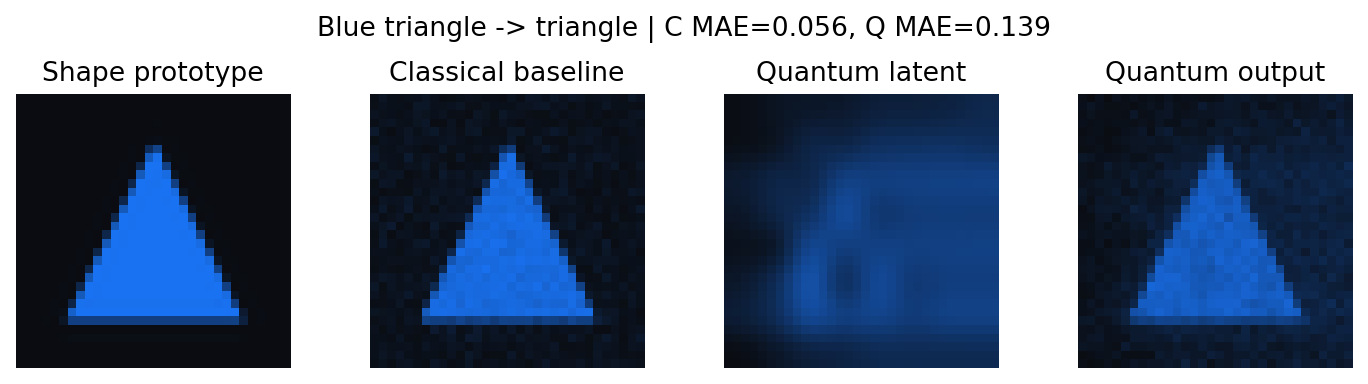
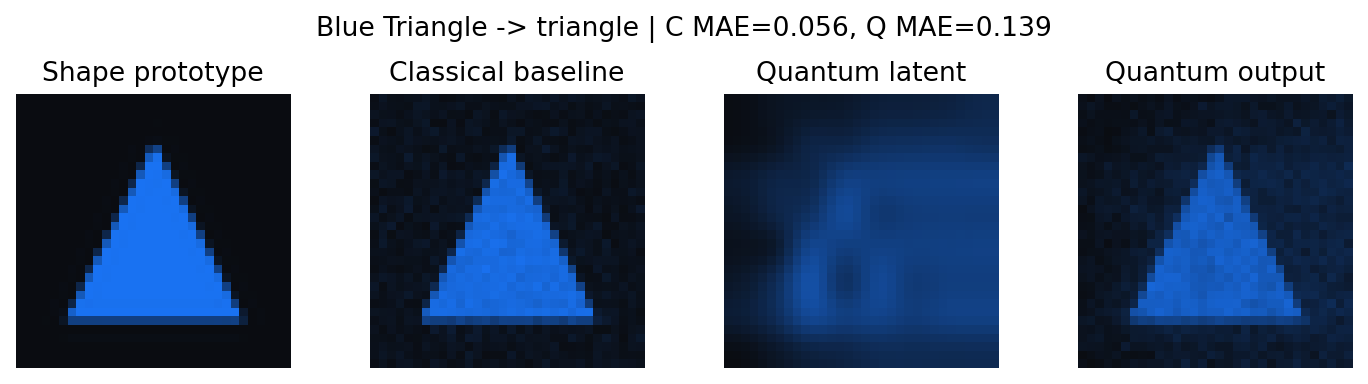
POC anyprompt now is accepted

Changed region(s): [[0.2149, 0.0312, 0.7675, 0.0938]]

diff --git a/POC_DiffusionModel/shape_diffusion.py b/POC_DiffusionModel/shape_diffusion.py
@@ -3,6 +3,7 @@
 from __future__ import annotations
 
 import json
+import hashlib
 from dataclasses import dataclass
 from pathlib import Path
 
@@ -175,6 +176,80 @@ def generate_shape_for_prompt(
     )
 
 
+def _prompt_seed(prompt: str) -> int:
+    digest = hashlib.sha256(prompt.encode("utf-8")).digest()
+    return int.from_bytes(digest[:4], byteorder="little", signed=False)
+
+
+def render_abstract_prompt_prototype(prompt: str, size: int = IMAGE_SHAPE[0]) -> np.ndarray:
+    """Create a deterministic abstract target for arbitrary text prompts."""
+    seed = _prompt_seed(prompt)
+    rng = np.random.default_rng(seed)
+    y, x = np.mgrid[0:size, 0:size]
+
+    freq_x = rng.uniform(1.0, 4.0)
+    freq_y = rng.uniform(1.0, 4.0)
+    phase = rng.uniform(0.0, 2.0 * np.pi)
+    cx, cy = rng.uniform(0.30, 0.70, size=2)
+    radius = rng.uniform(0.18, 0.36)
+
+    xn = x / max(size - 1, 1)
+    yn = y / max(size - 1, 1)
+    waves = 0.5 + 0.25 * np.sin(freq_x * np.pi * xn + phase)
+    waves += 0.25 * np.cos(freq_y * np.pi * yn - phase)
+    blob = np.exp(-(((xn - cx) ** 2 + (yn - cy) ** 2) / (2.0 * radius**2)))
+    prototype = 0.58 * waves + 0.42 * blob
+    return np.clip(prototype, 0.0, 1.0)
+
+
+def generate_abstract_for_prompt(
+    prompt: str,
+    *,
+    shots: int = 256,
+    steps: int = 20,
+    seed: int = 7,
+) -> ShapeGenerationResult:
+    """Fallback generator for arbitrary prompts not covered by known classes."""
+    prompt_hash = _prompt_seed(prompt)
+    label = prompt_hash % 10
+    color = parse_color(prompt, default_index=label)
+    prototype = render_abstract_prompt_prototype(prompt)
+    quantum_mask = quantum_latent_mask(
+        label,
+        shots=shots,
+        seed=seed + prompt_hash % 1000,
+        guidance_image=prototype,
+    )
+    classical_conditioning = np.full(IMAGE_SHAPE, fill_value=(label + 1) / 11.0)
+
+    classical_image = denoise_from_prompt(
+        prototype,
+        classical_conditioning,
+        steps=steps,
+        seed=seed + 500 + label,
+        conditioning_weight=0.10,
+    )
+    quantum_image = denoise_from_prompt(
+        prototype,
+        quantum_mask,
+        steps=steps,
+        seed=seed + 600 + label,
+        conditioning_weight=0.42,
+    )
+
+    return ShapeGenerationResult(
+        prompt=prompt,
+        shape="abstract",
+        color=color,
+        prototype=prototype,
+        classical_image=classical_image,
+        quantum_mask=quantum_mask,
+        quantum_image=quantum_image,
+        classical_mae=float(np.mean(np.abs(prototype - classical_image))),
+        quantum_mae=float(np.mean(np.abs(prototype - quantum_image))),
+    )
+
+
 def save_shape_visual_report(result: ShapeGenerationResult, output_path: Path) -> None:
     """Save a one-prompt shape generation report."""
     fig, axes = plt.subplots(1, 4, figsize=(9, 2.4))
@@ -185,9 +260,10 @@ def save_shape_visual_report(result: ShapeGenerationResult, output_path: Path) -
         ("Quantum output", result.quantum_image),
     ]
 
+    label_index = SHAPE_TO_ID.get(result.shape, _prompt_seed(result.prompt) % 10)
     for axis, (title, panel) in zip(axes, panels):
         axis.imshow(
-            colorize_image(panel, SHAPE_TO_ID[result.shape], result.color),
+            colorize_image(panel, label_index, result.color),
             interpolation="nearest",
         )
         axis.set_title(title)

diff --git a/POC_DiffusionModel/README.md b/POC_DiffusionModel/README.md
@@ -123,6 +123,18 @@ generate digit 7
 The server returns a PNG directly, so the UI pastes the generated image into
 the chat as the assistant response.
 
+If the prompt is not a known digit or supported shape, the server now falls
+back to an abstract prompt-conditioned image. For example:
+
+```text
+neon quantum waterfall
+purple spiral portal
+angry electric banana
+```
+
+Those arbitrary prompts are not semantically understood yet, but they do
+produce deterministic prompt-conditioned quantum images instead of failing.
+
 Generated UI outputs are also saved in:
 
 ```text
@@ -137,6 +149,13 @@ download. If you want a larger real dataset later, good options are:
 - Google QuickDraw dataset: very large hand-drawn sketch dataset with classes
   such as `circle`, `square`, and `triangle`.
   https://github.com/googlecreativelab/quickdraw-dataset
+- Hugging Face `google/quickdraw`: easier Python loading path for QuickDraw.
+  Search for: `Hugging Face google quickdraw dataset`
+  https://huggingface.co/datasets/google/quickdraw
+- Sketchy dataset: object sketch dataset useful if you want object categories
+  beyond simple shapes.
+  Search for: `Sketchy dataset object sketches`
+  https://huggingface.co/datasets/DrRORAL/sketchy-dataset
 - dSprites: official/simple procedural shape dataset with square, ellipse, and
   heart latent factors.
   https://www.tensorflow.org/datasets/catalog/dsprites
@@ -147,6 +166,17 @@ download. If you want a larger real dataset later, good options are:
 For the hackathon, synthetic local shapes are probably the fastest demo path.
 QuickDraw is the better next step if you want the prompts to feel more like
 real sketch generation.
+
+Useful search terms:
+
+```text
+google quickdraw dataset 345 categories
+huggingface google quickdraw image dataset
+sketchy dataset object sketches
+simple icons image dataset labels
+geometric shapes image dataset rgb
+captioned image dataset small objects
+```
 
 Custom prompts:
 